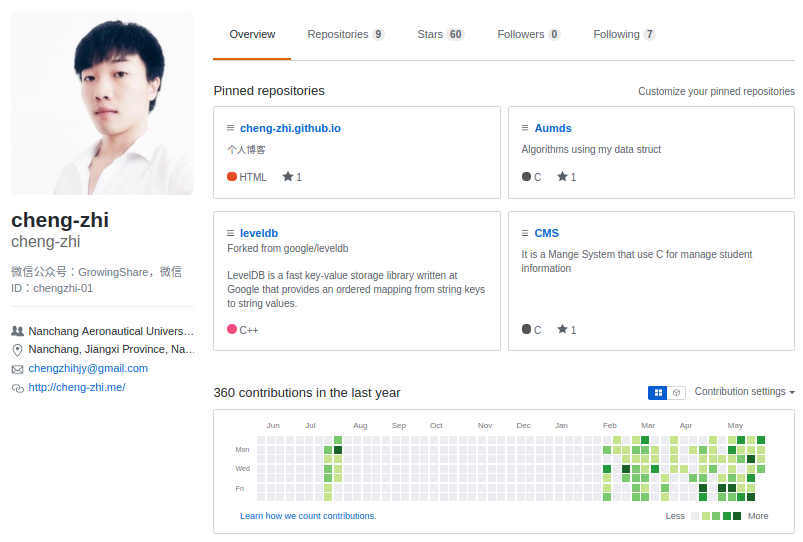
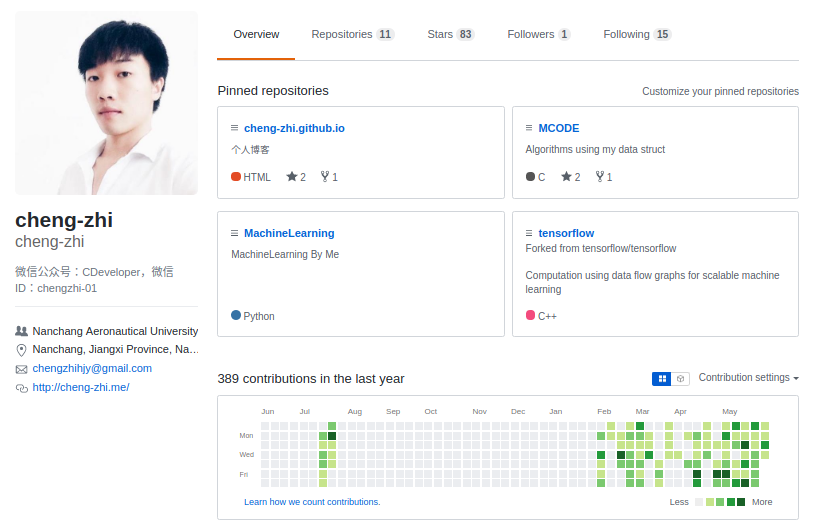
2017-05-31-my-github-demo.md

diff --git a/_posts/2017-05-31-my-github-demo.md b/_posts/2017-05-31-my-github-demo.md
@@ -20,18 +20,11 @@ date: 2017-05-31 17:00:00
 
 
 ## 我的项目
-现在已经大三了，大学没有多少时间了，最近花了一段时间好好想了想大学究竟应该干嘛，经过与许多大牛的请教和讨论最后得出的结果是：**如果你毕业后打算做程序员，那么请打好计算机基础。**
+通过与大牛交流了解到计算机基础是非常重要的，在大学应该学好基础，而不是层出不穷的框架。于是乎，就有一个**整理所有大学编写过的代码**的想法，这即是总结也是回忆。
 
-而我的项目就是非常基础，项目的**目的是使用自己编写的数据结构来解决实际的算法问题**，就是这个目标，不过我使用了 3 种不同的编程语言：
-1. C
-2. C++
-3. Python
-
-为何是他们，因为 `C/C++` 是我的最爱，而 `Python` 是人工智能（AI）的热门语言，我详细你应该知道最近的 AlphaGo 吧。
-
-这就是我的第一个项目，虽然我的主页上也有其他的项目，不过都不是最主要的，但是这个项目我会持续维护下去。
+这就是我的第一个项目。
 
 ## 项目地址
-[Aumds](https://github.com/cheng-zhi/Aumds)，欢迎 `star` 和 `fork`。
+[MCODE](https://github.com/cheng-zhi/MCODE)，欢迎 `star` 和 `fork`。
 
 
